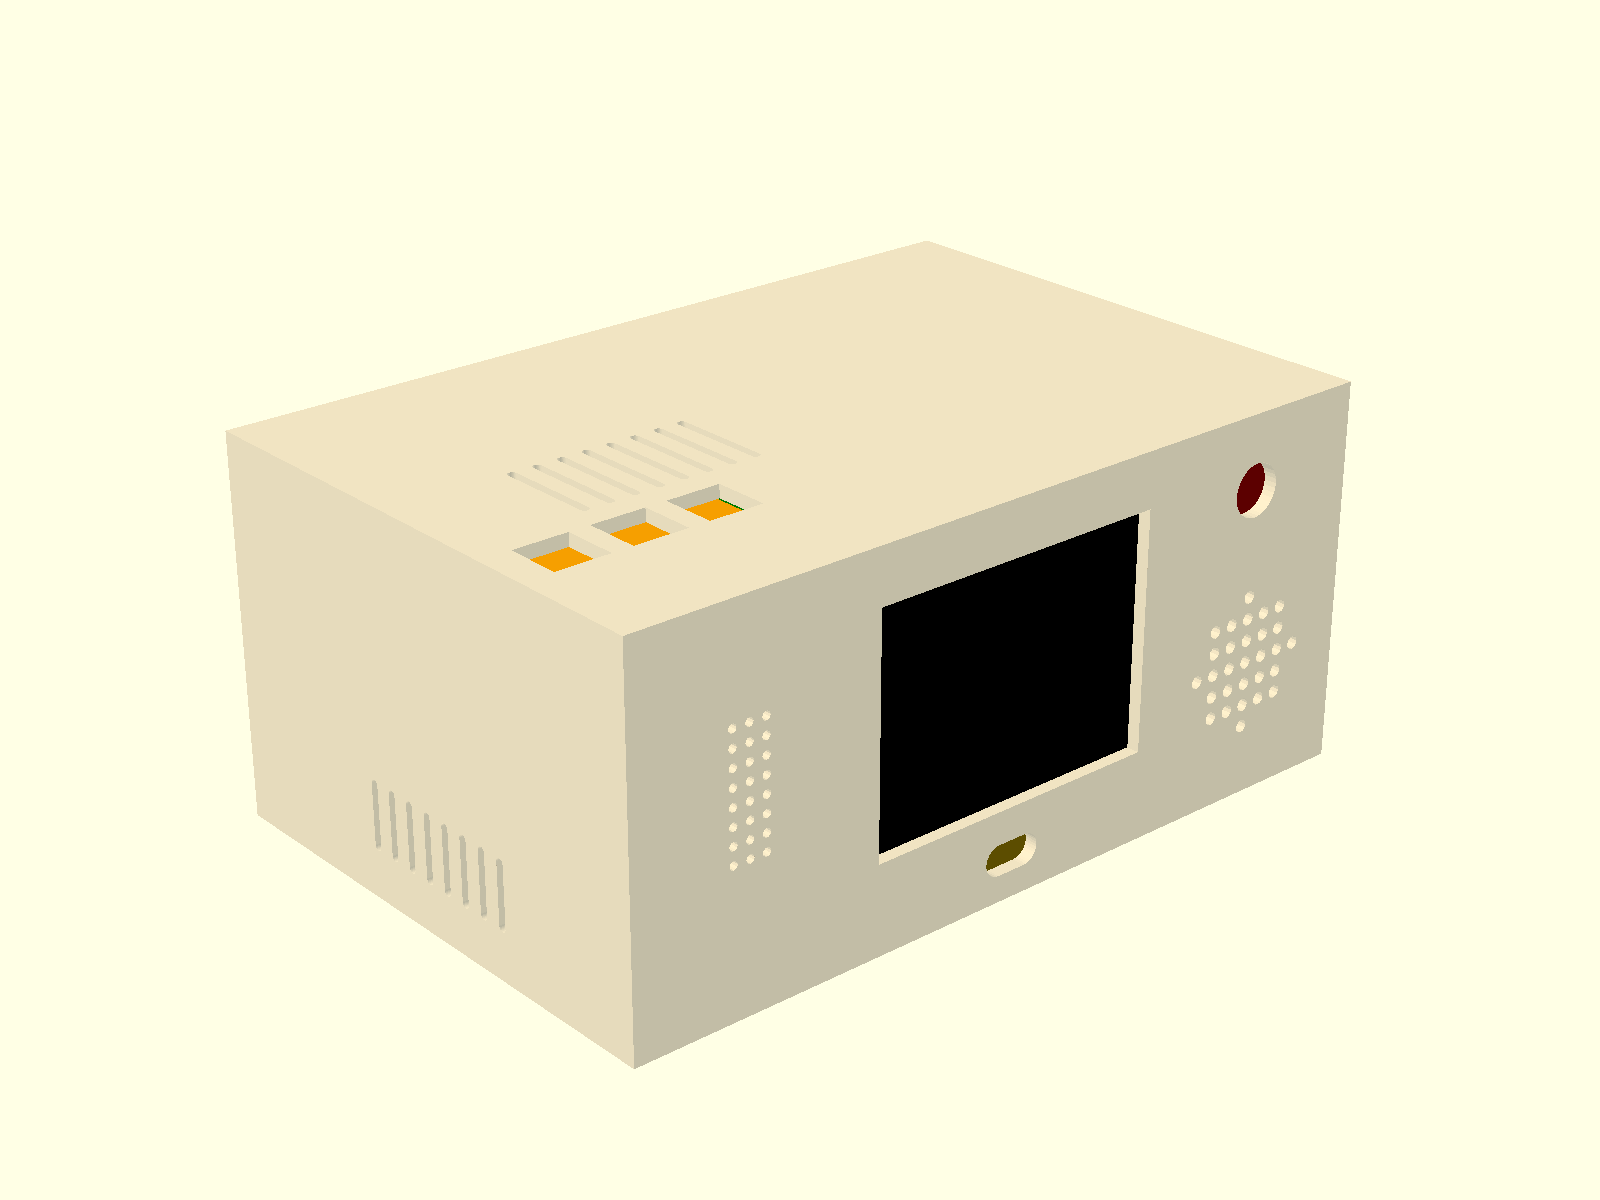
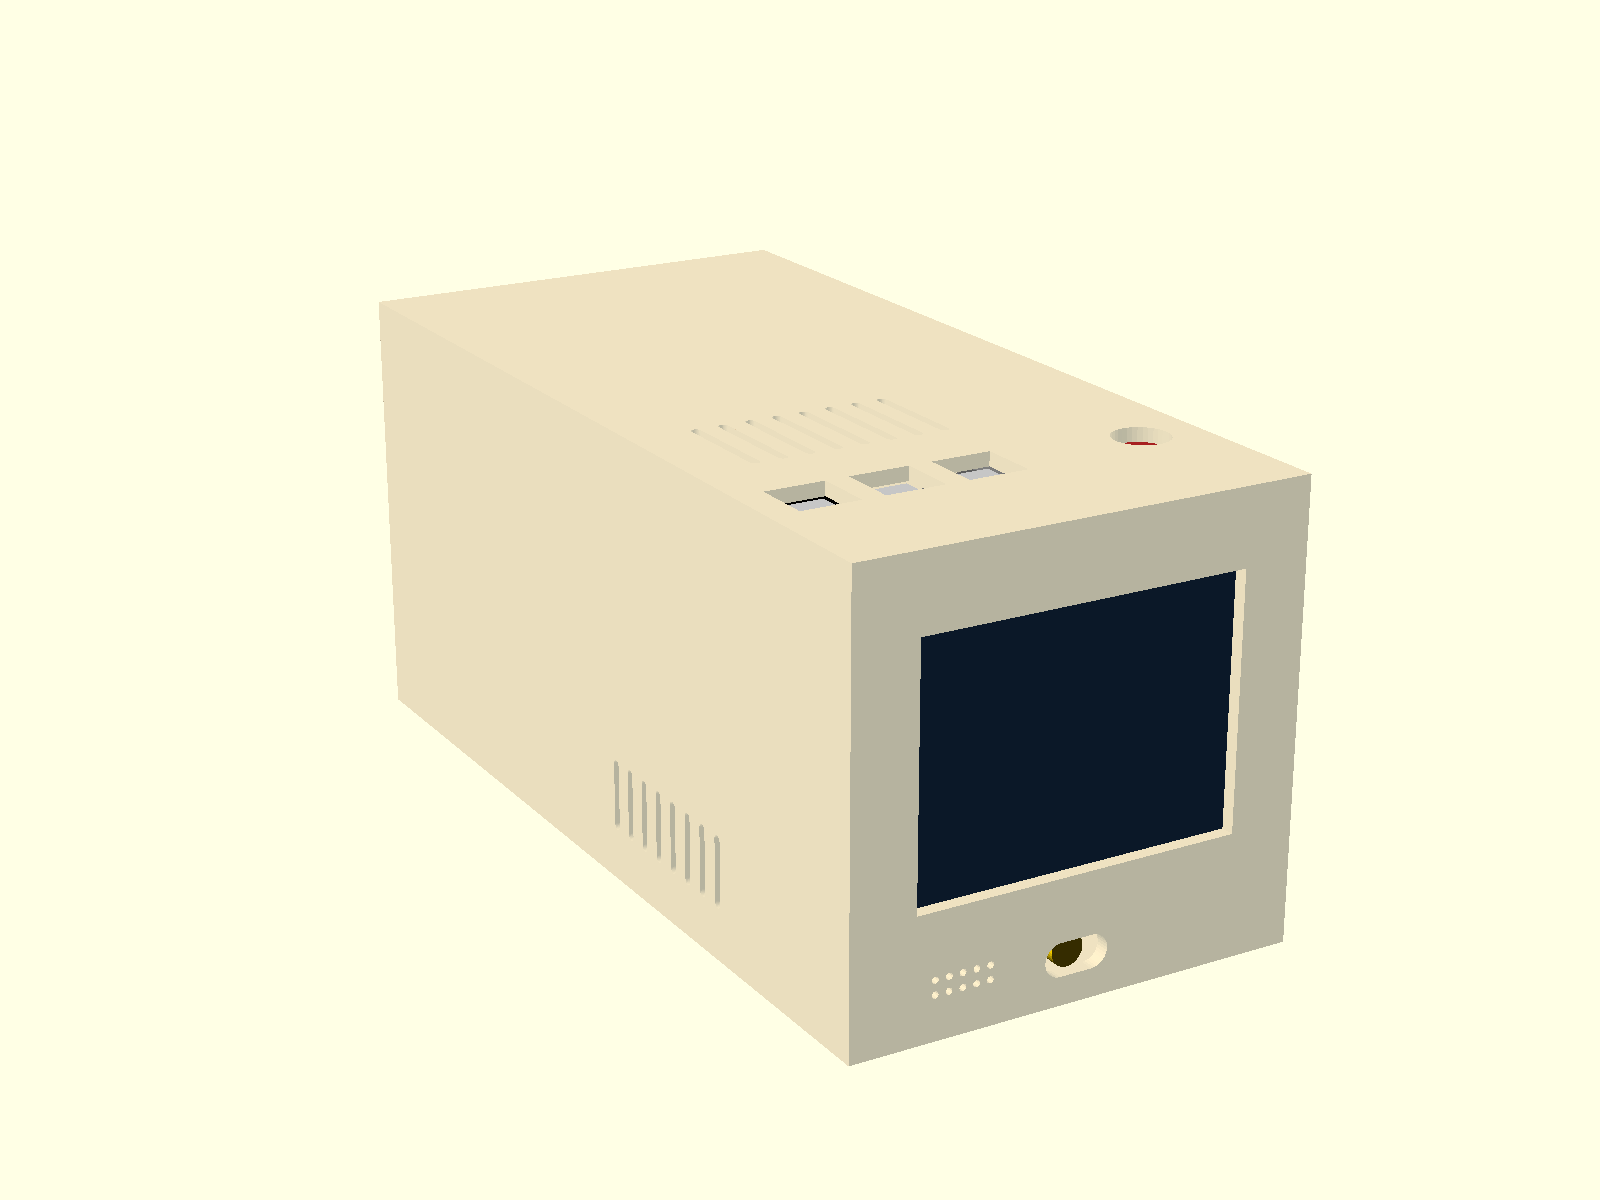
feat(hardware): screen-first enclosure with sourced part dimensions
The front is now ~72% screen: mic and magnetic charging move to the
bottom bezel, keys and power to the top, the speaker to the right side.
The Pi lies lengthwise so its plugs use the depth, and the power bank
lies under it, which makes the box deep instead of wide.

Dimensions come from official drawings (Pi 3B RPI-3B-V1_2, Waveshare
3.5inch HDMI LCD (E), Redmi 20000, Pi USB 3 hub, Adafruit panel-mount
cables); unpublished values are marked UNVERIFIED. Parts are modelled
with real connector positions, plug and cable room is reserved and
checked for collisions, and back ports use per-type screw pitches.

Changed region(s): [[0.125, 0.185, 0.8438, 0.8942], [0.3125, 0.4317, 0.4062, 0.4933]]

diff --git a/hardware/enclosure/README.md b/hardware/enclosure/README.md
@@ -12,7 +12,28 @@ model cannot disagree.
 |---|---|
 | ![assembled](preview-assembled.png) | ![exploded](preview-exploded.png) |
 
-Default outer size: **192 × 129 × 87 mm** (cardboard, 3 mm walls).
+Default outer size: **98.9 × 204.1 × 95.6 mm** (cardboard, 3 mm walls). The
+front is almost all screen — the visible area is 71.5 % of the width
+(`screen_share` caps it at 73 %). Mic grille and magnetic charging sit in the
+bottom bezel, keys and the power button on the top, the speaker fires out of the
+right side. The box is deep because the power bank lies lengthwise under the Pi.
+
+## Parts and where the numbers come from
+
+| Part | Source |
+|---|---|
+| Raspberry Pi 3 Model B | official drawing [RPI-3B-V1_2](https://datasheets.raspberrypi.com/rpi3/raspberry-pi-3-b-mechanical-drawing.pdf): outline, holes, connector positions and heights |
+| Waveshare 3.5inch HDMI LCD (E), 640×480 | [Waveshare](https://www.waveshare.com/3.5inch-hdmi-lcd-e.htm): outline 76.6 × 63.6, active area 70.68 × 53.36; power and capacitive touch over one USB-C |
+| Redmi 20000 mAh (PB200LZM) | [mi.com](https://www.mi.com/global/product/20000mah-redmi-fast-charge-power-bank/specs/): 154 × 73.6 × 27.3; the manual documents output while charging |
+| Raspberry Pi USB 3 Hub | [raspberrypi.com](https://www.raspberrypi.com/documentation/accessories/usb.html): 57.4 × 52.4 × 18 |
+| Waveshare USB TO AUDIO | Waveshare size drawing: 53 × 23.5 × 14.6 |
+| Mini USB microphone | [Adafruit #3367](https://www.adafruit.com/product/3367): 22.2 × 18.3 × 7 |
+| Panel-mount USB-A / USB-C | Adafruit [#908](https://www.adafruit.com/product/908) / [#4053](https://www.adafruit.com/product/4053): M3 screws 30 / 20 mm apart |
+
+The 3.5" MPI3508 (480×320) is deliberately not used: its touch and power go
+through the Pi's GPIO header. Values marked `UNVERIFIED` in the file are not
+published by the maker (screen thickness, Pi board thickness and underside,
+panel-mount cutouts, the speaker).
 
 ## Modes
 
@@ -40,21 +61,15 @@ The console also prints the outer size and every cutout's centre and size.
 
 ## Before cutting
 
-All sizes are defaults from shop listings. Measure the real parts and edit the
-parameters at the top of the file, especially:
-
-- `screen_size`, `screen_t`, `screen_view` — the 3.5" module and its visible area;
-- `bank_size` — the power bank drives the depth;
-- `speaker_d` — drives the width (`symmetric = true` keeps the screen centred;
-  a 28 mm speaker makes the box ~30 mm narrower);
-- `usbc_cut`, `usba_cut`, `port_screw_pitch` — the panel-mount extension cables;
-- `mic_size`, `key_cap`, `power_d`.
+Measure the real parts, especially everything marked `UNVERIFIED`, and edit the
+parameters at the top of the file. The layout, templates and checks follow.
 
 ## Notes
 
 - The Pi's only HDMI port feeds the screen, so the back has no HDMI opening. The
-  screen stands behind the front panel and the Pi lies on a shelf behind it: use
-  a short flexible HDMI cable, not the U-shaped adapter meant for stacking.
+  screen's HDMI and USB-C are on its top edge, and the Pi lies on a shelf with
+  its HDMI facing the right wall: use right-angle adapters and a short flexible
+  HDMI cable.
 - The back ports are panel-mount extensions from the powered hub. A phone
   plugged in there draws charge from the hub, not from the Pi.
 - Cardboard: the back is a door hinged on the top panel and held by a tuck flap,
